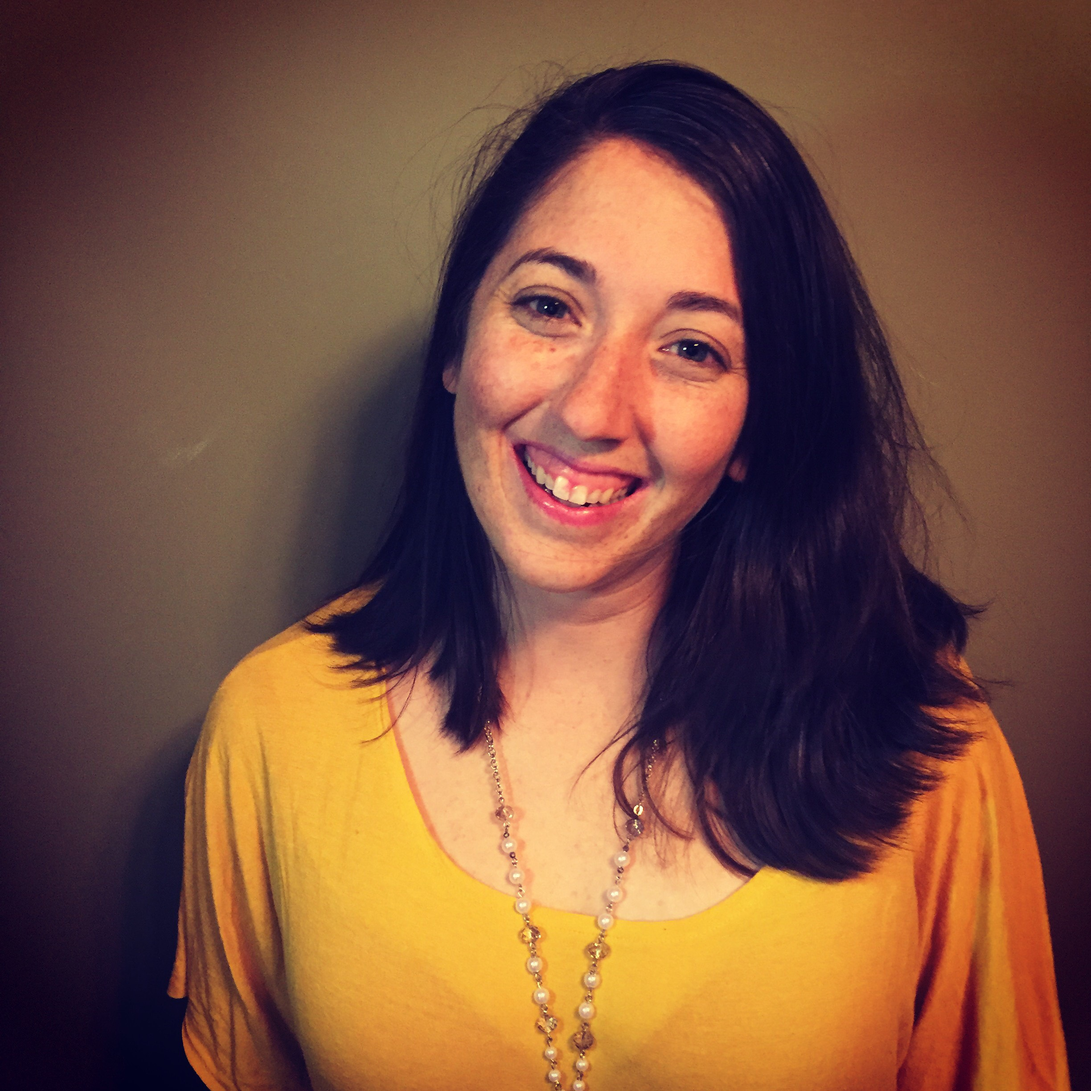
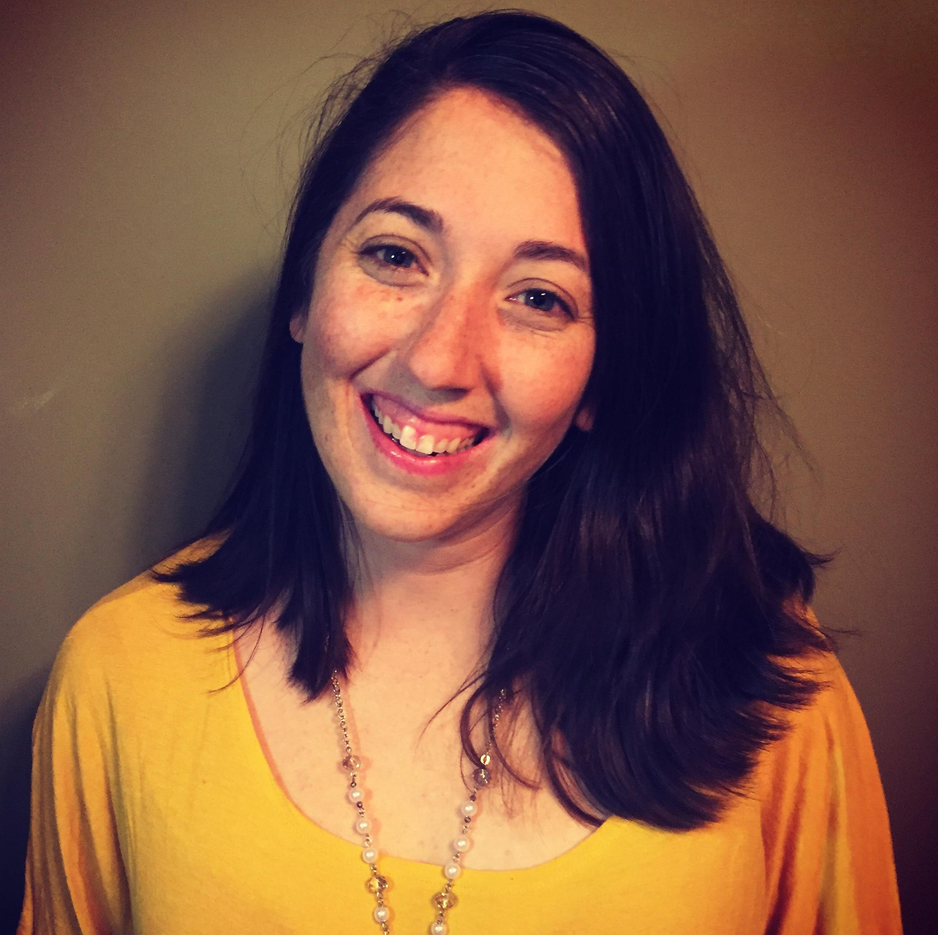
cropping image and adjusting size

diff --git a/index.html b/index.html
@@ -59,7 +59,7 @@
 				  <div class="col-md-offset-2 col-md-8">
 					<div class="section-heading">
 					 <h2>About Me</h2>
-                     <image src="img/Kaylyn2017.JPG" alt="" />
+                     <image src="img/Kaylyn2017.JPG" style="width:300px;height:300px;"/>
                         <br></br>
 					 <p>My name is Kaylyn Cheatham Sigler, and I am currently an Information Developer (technical writer and editor) and User Experience professional for IBM in the Denver, Colorado area. I write, graphic design, and edit documentation for the IBM Watson platform. I also curate, write, and edit blogs for the Watson developer section of IBM's technical journal, IBM developerWorks.</p>
                      <p>I have a passion for education, and for giving underserved people and women the opportunity for better education. Towards this goal, I volunteer with a group of coworkers for the <a href="http://www.dailycamera.com/boulder-county-schools/ci_30421452/longmont-high-launches-first-p-tech-class" target="_blank">Colorado IBM P-TECH school</a>. P-TECH is a technical high school that gives students the chance to graduate high school both with their diplomas, and with an associates degree in Computer Science.</p>
